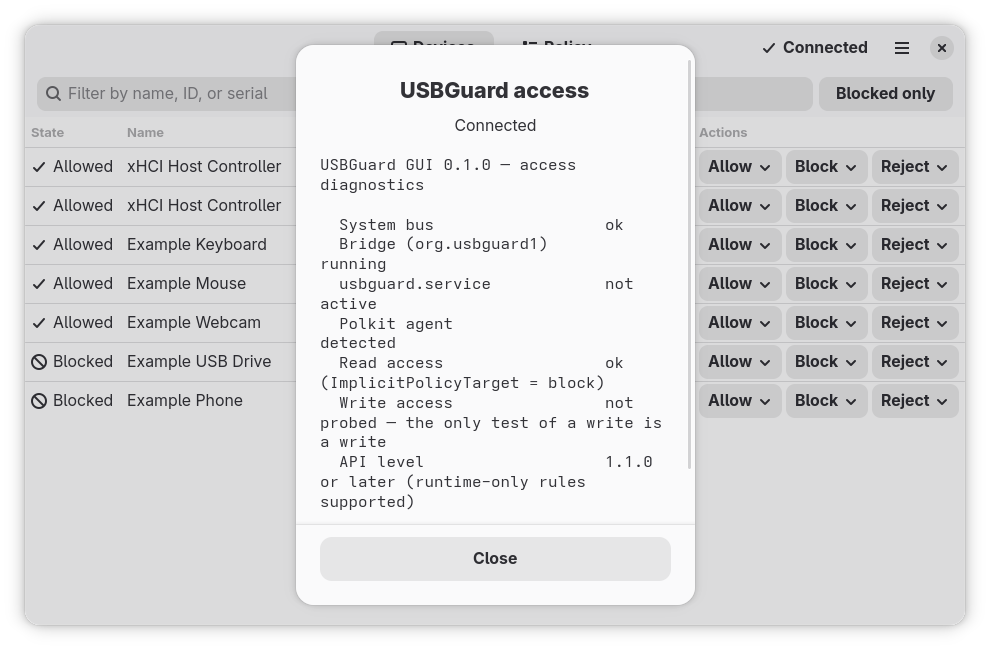
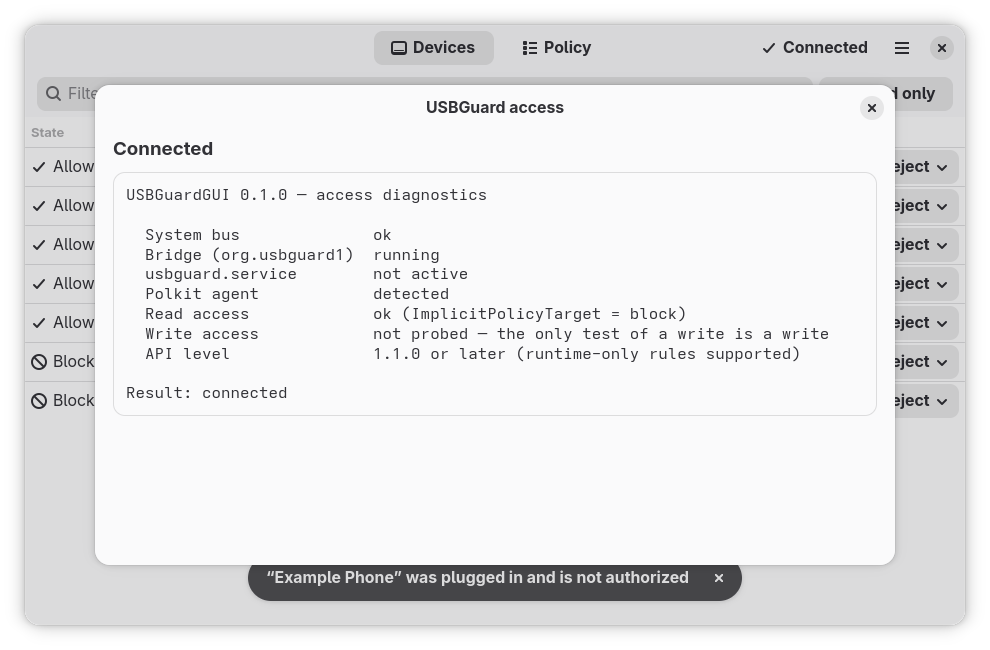
chore(release): 0.1.0
The diagnostics screenshot shows the wider dialog; the changelog and
the AppStream release entry are dated 2026-09-27.

diff --git a/CHANGELOG.md b/CHANGELOG.md
@@ -12,8 +12,9 @@ and this project adheres to [Semantic Versioning](https://semver.org/spec/v2.0.0
 
 ## [Unreleased]
 
-Nothing is released yet. See
-[ROADMAP.md](https://github.com/onyks-os/USBGuardGUI/blob/main/ROADMAP.md) for the phase order.
+## [0.1.0] - 2026-09-27
+
+The first release.
 
 ### Added
 
@@ -64,12 +65,5 @@ Nothing is released yet. See
 - `docs/architecture.md`: `listRules` takes a label filter, not a query — `""` lists every rule,
   `"match"` would have listed none. Found by introspection before any code depended on it.
 
-### Deprecated
-
-### Removed
-
-### Fixed
-
-### Security
-
-[Unreleased]: https://github.com/onyks-os/USBGuardGUI/commits/main
+[Unreleased]: https://github.com/onyks-os/USBGuardGUI/compare/v0.1.0...HEAD
+[0.1.0]: https://github.com/onyks-os/USBGuardGUI/releases/tag/v0.1.0
